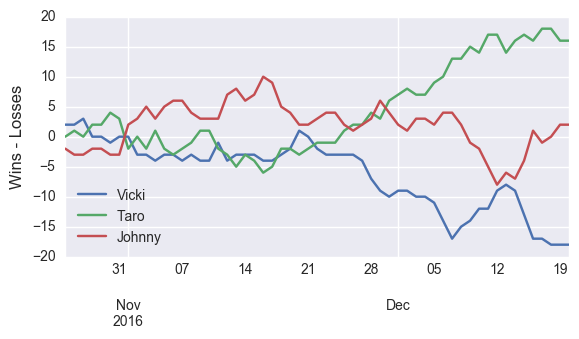
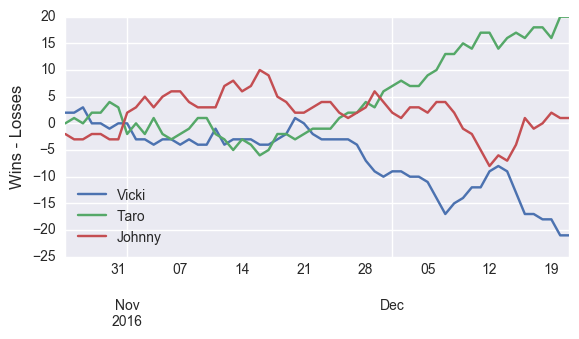
update 12/21

diff --git a/index.html b/index.html
@@ -35,7 +35,7 @@
 <a id="the-bet-is-on" class="anchor" href="#the-bet-is-on" aria-hidden="true"><span aria-hidden="true" class="octicon octicon-link"></span></a>The bet is on.</h1>
 
 <h1>
-<a id="current-winner-of-2016-17-season" class="anchor" href="#current-winner-of-2016-17-season" aria-hidden="true"><span aria-hidden="true" class="octicon octicon-link"></span></a>Current winner of 2016-17 Season (as of 12/20/2016):</h1>
+<a id="current-winner-of-2016-17-season" class="anchor" href="#current-winner-of-2016-17-season" aria-hidden="true"><span aria-hidden="true" class="octicon octicon-link"></span></a>Current winner of 2016-17 Season (as of 12/21/2016):</h1>
 
 <h2>
 <a id="none" class="anchor" href="#none" aria-hidden="true"><span aria-hidden="true" class="octicon octicon-link"></span></a><strong>Taro</strong>
@@ -44,23 +44,23 @@
 <h2>
 <a id="johnny" class="anchor" href="#johnny" aria-hidden="true"><span aria-hidden="true" class="octicon octicon-link"></span></a>Johnny</h2>
 
-<p>Wins: 141<br>
-Losses: 139<br>
-Remaining wins available: 459</p>
+<p>Wins: 144<br>
+Losses: 143<br>
+Remaining wins available: 453</p>
 
 <h2>
 <a id="taro" class="anchor" href="#taro" aria-hidden="true"><span aria-hidden="true" class="octicon octicon-link"></span></a>Taro</h2>
 
-<p>Wins: 145<br>
-Losses: 129<br>
-Remaining wins available: 463</p>
+<p>Wins: 151<br>
+Losses: 131<br>
+Remaining wins available: 457</p>
 
 <h2>
 <a id="vicki" class="anchor" href="#vicki" aria-hidden="true"><span aria-hidden="true" class="octicon octicon-link"></span></a>Vicki</h2>
 
-<p>Wins: 130<br>
-Losses: 148<br>
-Remaining wins available: 468</p>
+<p>Wins: 132<br>
+Losses: 153<br>
+Remaining wins available: 461</p>
 
 <img src='pythoncode/win_percent.png' alt='Winning Percentage Over Time'>
 <h1>
